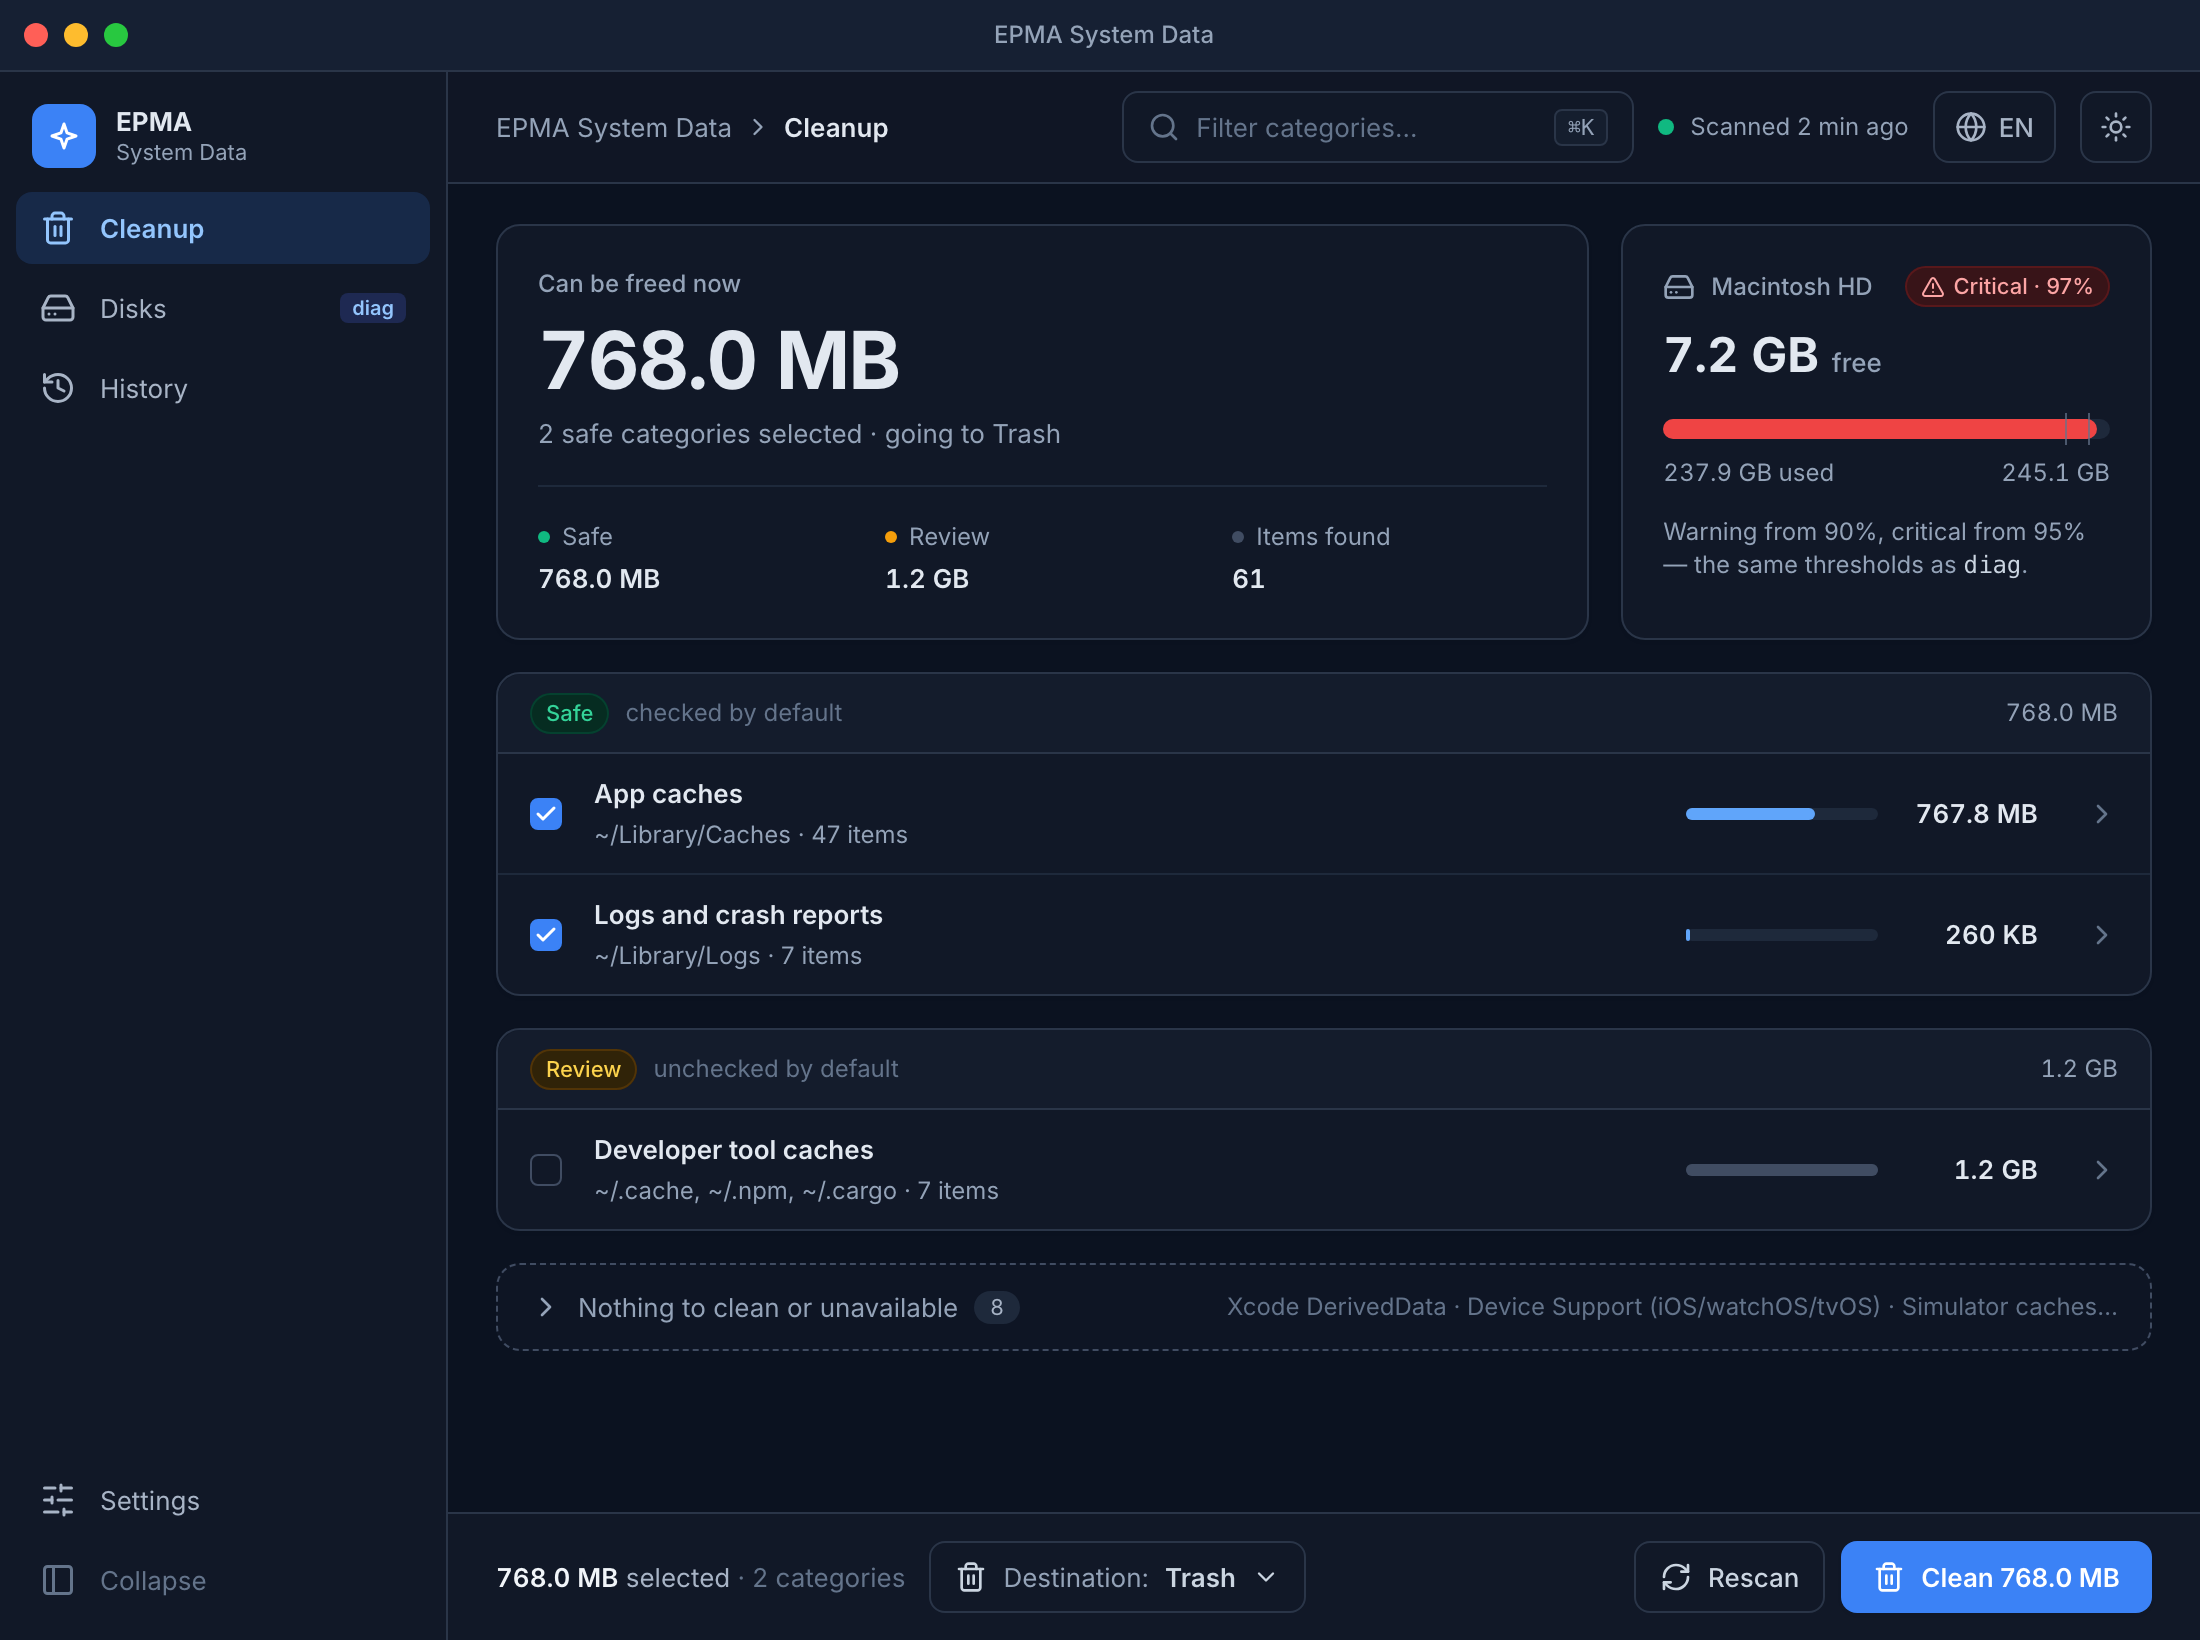
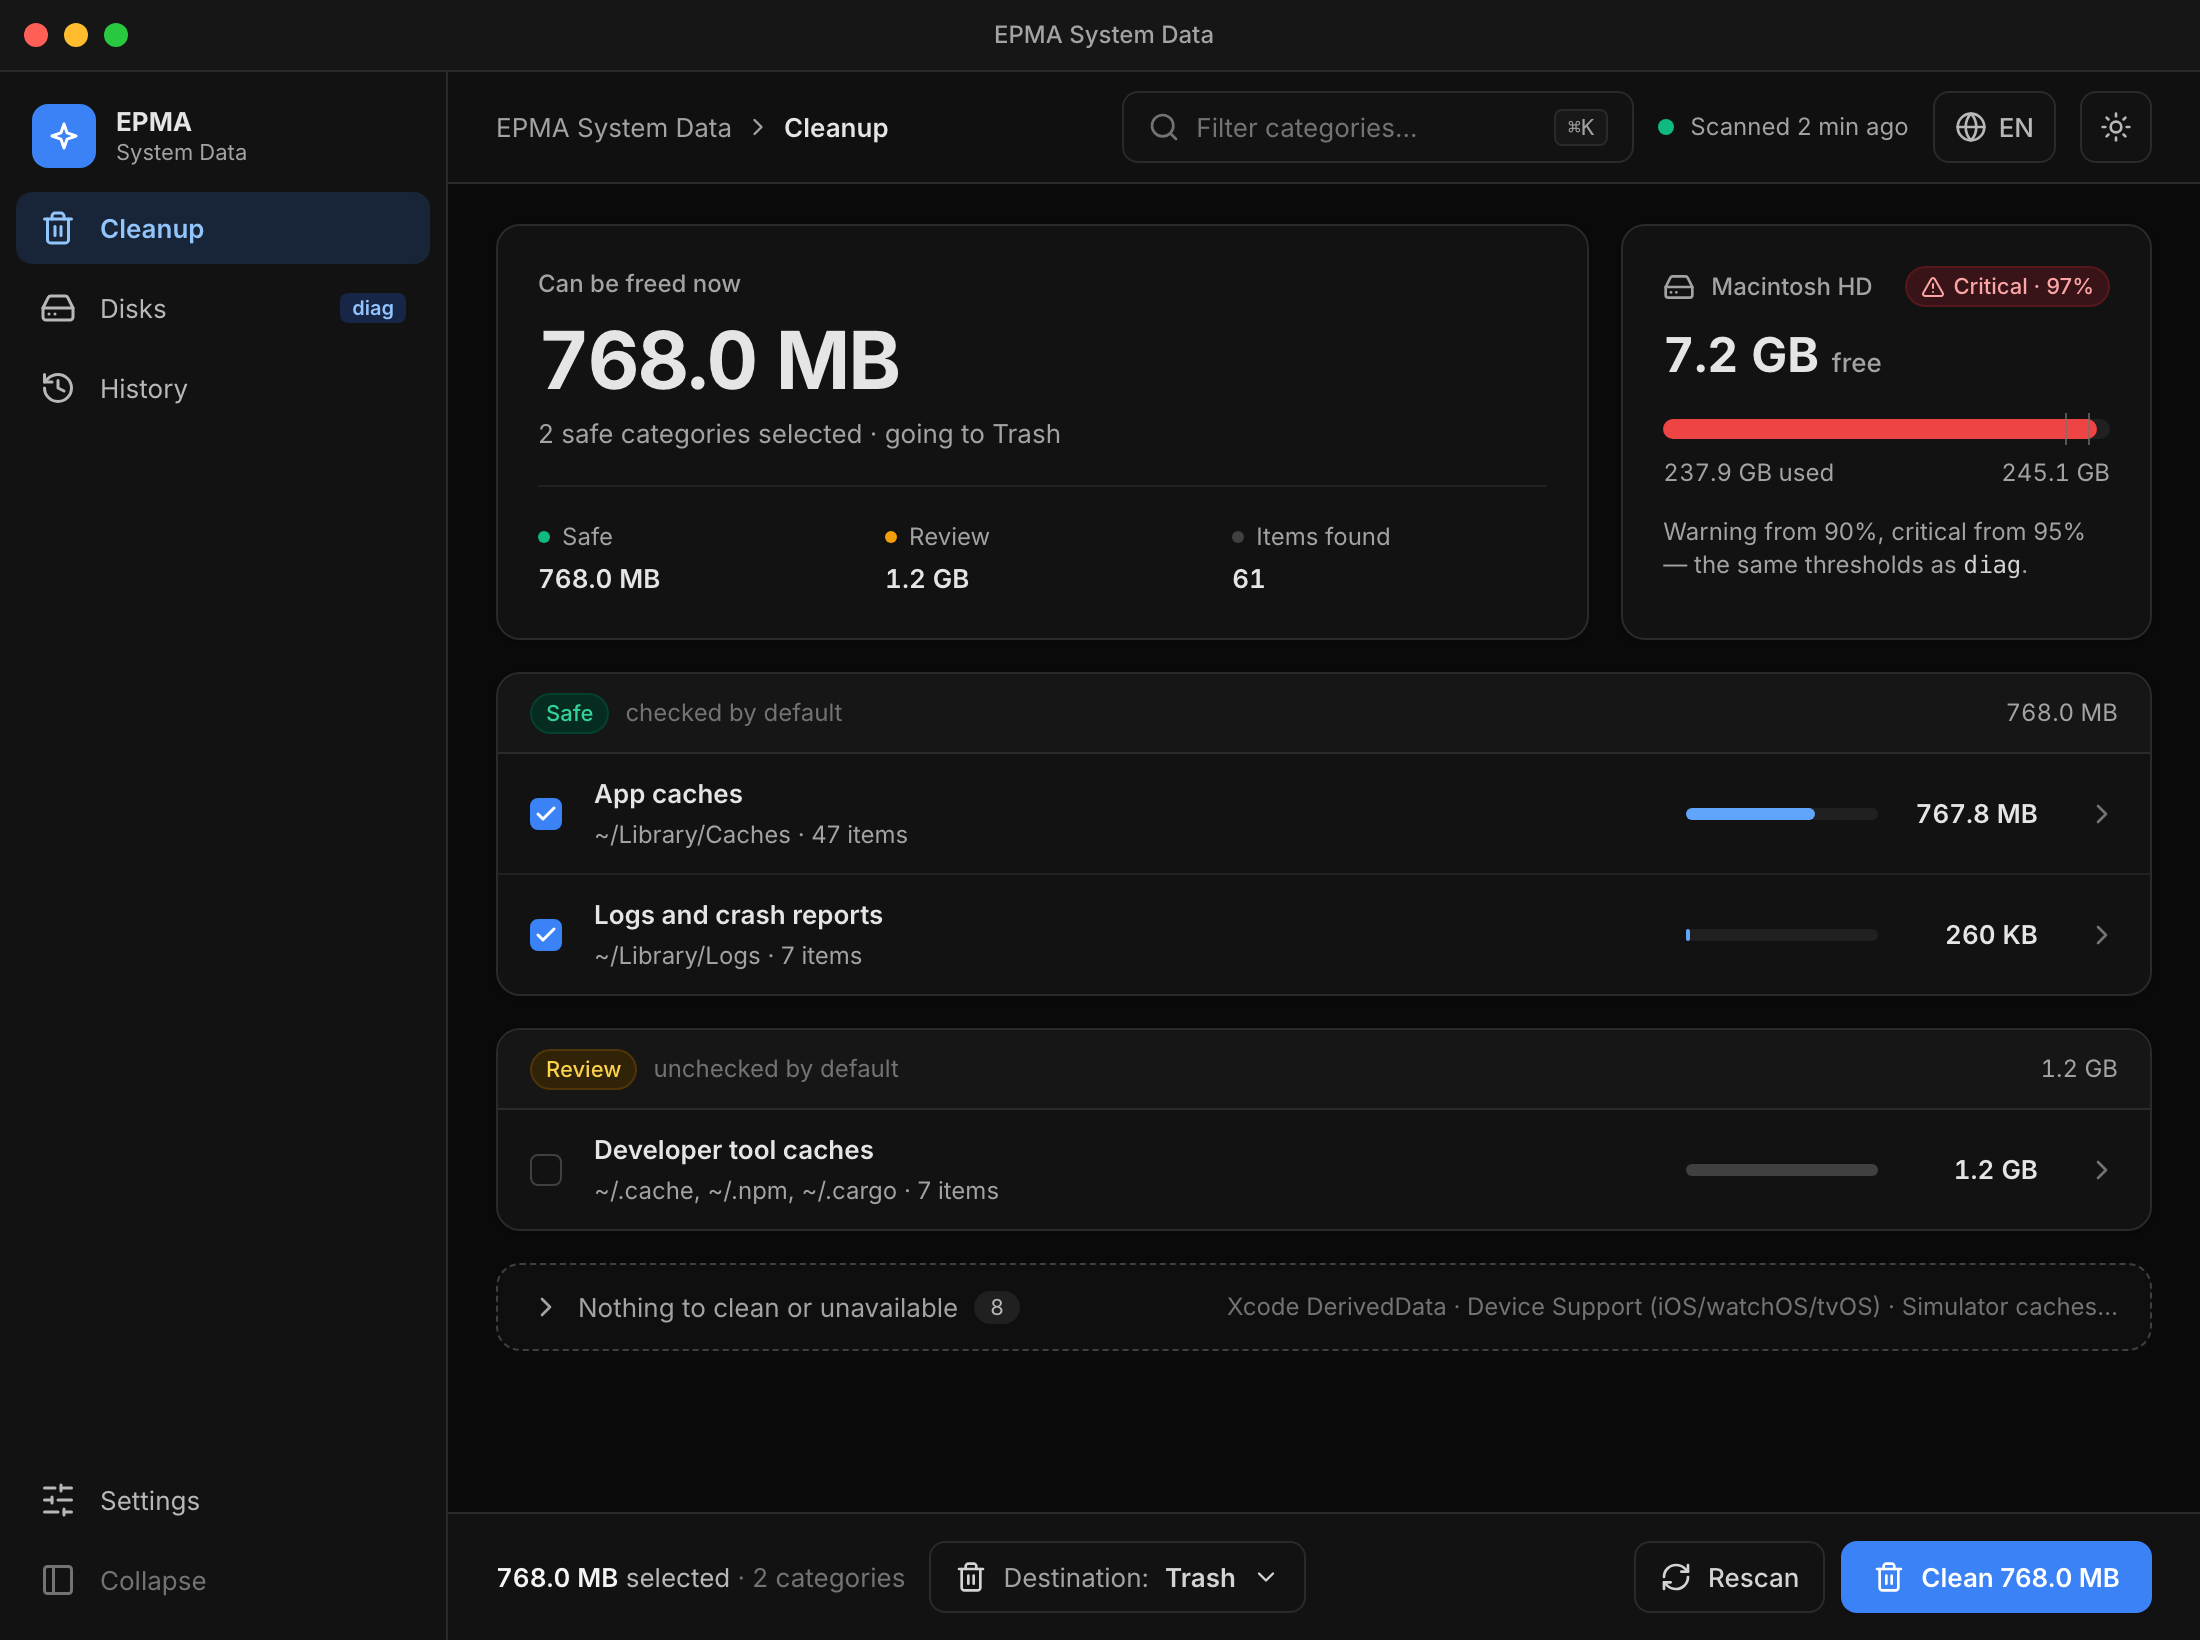
Troca o tema escuro da proposta para preto neutro
Fundo #0A0A0A e cinzas sem tom azulado; o azul fica só como cor de destaque.
Capturas escuras regeradas em pt-BR e en-US e tokens atualizados no PROPOSTA.md.

diff --git a/outputs/mockup.html b/outputs/mockup.html
@@ -41,17 +41,17 @@
     color-scheme: light;
   }
   :root.dark {
-    --bg: #0B1220; --ink: #E2E8F0; --titlebar: #162033;
+    --bg: #0A0A0A; --ink: #E5E5E5; --titlebar: #161616;
     --accent: #3B82F6; --accent-hover: #2563EB; --accent-text: #93C5FD; --accent-soft: rgba(59,130,246,.16);
-    --skel-a: #1E293B; --skel-b: #2A3750;
-    --card: 17 24 39;
-    --slate-50: 21 30 46; --slate-100: 30 41 59; --slate-200: 42 53 72; --slate-300: 64 76 98; --slate-400: 100 116 139;
-    --slate-500: 148 163 184; --slate-600: 168 180 198; --slate-700: 203 213 225; --slate-800: 226 232 240; --slate-900: 241 245 249;
+    --skel-a: #1F1F1F; --skel-b: #2B2B2B;
+    --card: 18 18 18;
+    --slate-50: 24 24 24; --slate-100: 32 32 32; --slate-200: 42 42 42; --slate-300: 64 64 64; --slate-400: 115 115 115;
+    --slate-500: 163 163 163; --slate-600: 184 184 184; --slate-700: 212 212 212; --slate-800: 229 229 229; --slate-900: 245 245 245;
     --emerald-50: 6 44 33; --emerald-500: 16 185 129; --emerald-700: 52 211 153; --emerald-800: 110 231 183;
     --amber-50: 48 35 8; --amber-500: 245 158 11; --amber-700: 252 211 77;
     --red-50: 56 20 24; --red-200: 127 29 29; --red-300: 153 27 27; --red-400: 248 113 113; --red-500: 239 68 68;
     --red-600: 220 38 38; --red-700: 252 165 165; --red-800: 254 202 202;
-    --blue-50: 17 30 58; --blue-100: 30 41 82; --blue-200: 30 58 138; --blue-400: 96 165 250; --blue-700: 147 197 253; --blue-800: 191 219 254;
+    --blue-50: 14 24 44; --blue-100: 23 37 70; --blue-200: 30 58 120; --blue-400: 96 165 250; --blue-700: 147 197 253; --blue-800: 191 219 254;
     color-scheme: dark;
   }
   html, body { background: var(--bg); color: var(--ink); }

diff --git a/outputs/PROPOSTA.md b/outputs/PROPOSTA.md
@@ -118,16 +118,17 @@ Todas as cores são **tokens** com o mesmo nome nos dois temas. Nada de cor fixa
 
 | Token | Claro | Escuro |
 |---|---|---|
-| Fundo da janela | `#F8FAFC` | `#0B1220` |
-| Cartão / painel | `#FFFFFF` | `#111827` |
-| Borda | `#E2E8F0` | `#2A3548` |
-| Texto | `#1E293B` | `#E2E8F0` |
-| Texto secundário | `#64748B` | `#94A3B8` |
+| Fundo da janela | `#F8FAFC` | `#0A0A0A` (preto neutro) |
+| Cartão / painel | `#FFFFFF` | `#121212` |
+| Borda | `#E2E8F0` | `#2A2A2A` |
+| Texto | `#1E293B` | `#E5E5E5` |
+| Texto secundário | `#64748B` | `#A3A3A3` |
 | Destaque (botão, checkbox) | `#2563EB` | `#3B82F6` |
 | Destaque em texto/links | `#2563EB` | `#93C5FD` |
 | Seguro / Revisar / Erro (fundo suave) | verde, âmbar, vermelho claros | os mesmos matizes em tom escuro translúcido, com texto claro |
 
 Regras que valem nos dois temas:
+- O escuro é **preto neutro** (cinzas sem tom azulado). O azul aparece só como destaque.
 - Uma única cor de destaque; o azul fica **um tom mais claro no escuro** para manter contraste com o texto branco do botão.
 - As cores semânticas mudam de **fundo e texto**, não de significado: vermelho continua sendo "crítico/irreversível".
 - A cor do botão primário não muda no hover por "clarear" (no escuro isso estoura): usa um token `accent-hover` próprio.
